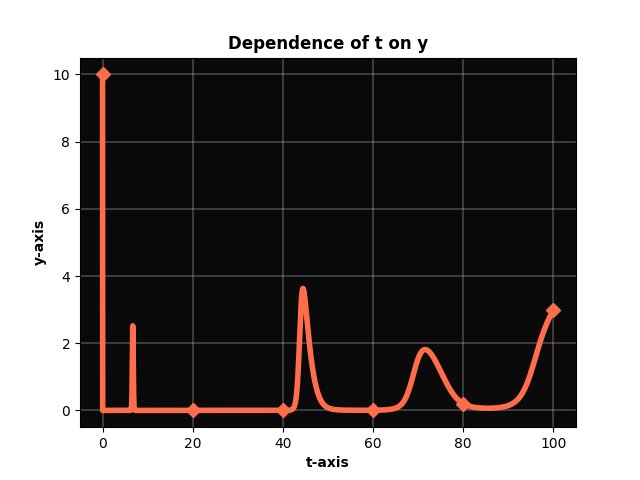
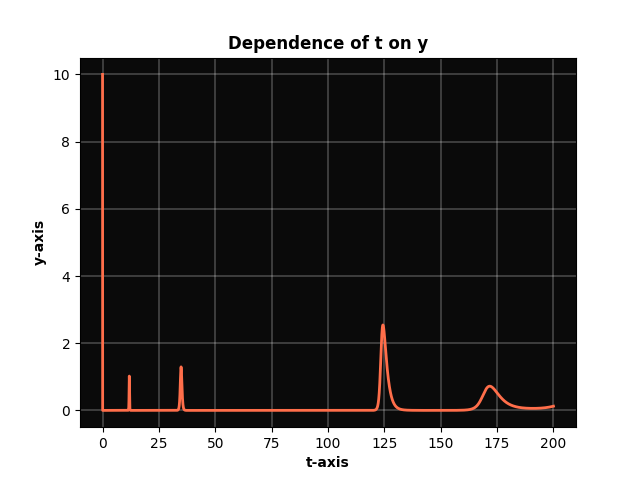
Final commit

diff --git a/cauchy_populations.py b/cauchy_populations.py
@@ -84,10 +84,9 @@ class CauchySolving:
         plt.title(f'Dependence of {leader} on {driven}', weight='bold')
         plt.xlabel(f'{leader}-axis', weight='bold')
         plt.ylabel(f'{driven}-axis', weight='bold')
-        plt.plot(x, y, color="#FF6E4A", linewidth=4)
+        plt.plot(x, y, color="#FF6E4A", linewidth=2)
         x1 = [x[i] for i in range(0, len(x), int(len(x)/5))]
         y1 = [y[i] for i in range(0, len(y), int(len(y)/5))]
-        plt.plot(x1, y1, 'D', markersize=7, color="#FF6E4A")
         plt.grid(which='major', linewidth=0.3, color="white")
         plt.savefig(f'last_run_results/Dependence of {leader} on {driven}.png') 
         plt.show()
@@ -352,29 +351,9 @@ class CauchySolving:
                     break
         end = time.time()
         self.write_results(end-start, iterations_num, "implicit trapezoid")
-    
-#     def iter_implicit_Runge_Kutta4(self, offset_to_break_out=None):
-#         vector = self.current_vector()
-#         k1_d_vect = self.derivatives_vector(vector)
-#         k2_d_vect = self.derivatives_vector(vector)
-#         k1_d_vect = self.derivatives_vector(vector)
-#         k1_d_vect = self.derivatives_vector(vector)
-#         shift = self.shift
-#         eps = self.eps_const
-#         if shift is None: shift = self.dynamic_shift()
-            
-#         def implct_RK4_kfunc(w):
-#             F = np.zeros(4)
-#             F[0] = w[0]-vector[0]-shift/6*()
-#             F[1] =
-#             F[2] =
-#             F[3] =
-#             return F    
-    
-#     def method_implicit_Runge_Kutta4(self):
-#         ...
+
         
 if __name__ == "__main__":
-    default_case = [40, 10, 0, 10, 0.005, 0.01]
+    default_case = [40, 10, 0, 10, 10**(-3), 0.01]
     c = CauchySolving(default_case)
-    c.method_implicit_Euler(10000)
+    c.method_implicit_Euler(20000)
